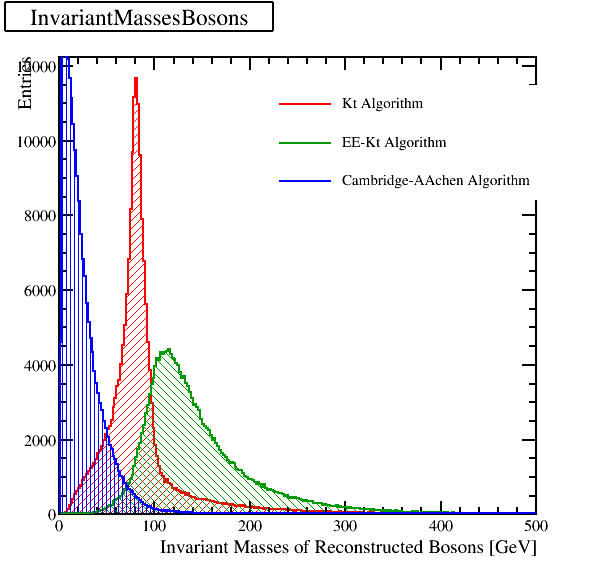
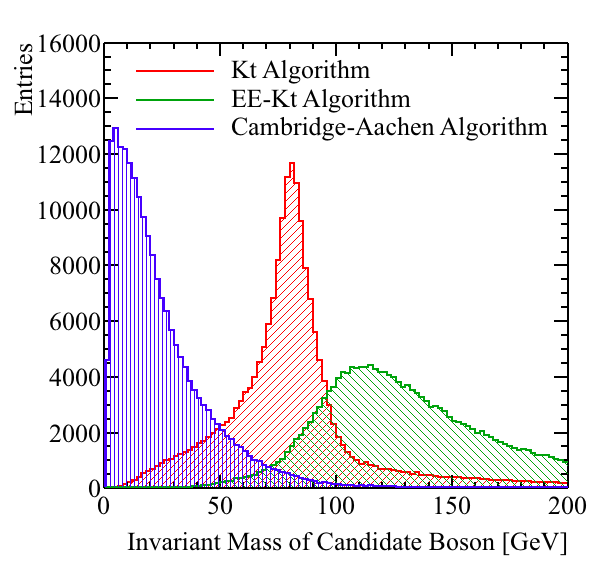
Tidied up jet algorithm choice plots.

Changed region(s): [[0.0, 0.0, 0.9966, 0.9808], [0.5738, 0.2972, 0.906, 0.3269]]

diff --git a/PhysicsAnalysis/Plots/SimpleInvMassPlot/InvariantMassesAlgorithmVeto.C b/PhysicsAnalysis/Plots/SimpleInvMassPlot/InvariantMassesAlgorithmVeto.C
@@ -14,8 +14,8 @@
    Canvas->SetFrameLineWidth(2);
    Canvas->SetFrameBorderMode(0);
    Canvas->SetRightMargin(0.05);
-   Canvas->SetLeftMargin(0.15);
-   Canvas->SetTopMargin(0.05);
+   Canvas->SetLeftMargin(0.175);
+   Canvas->SetTopMargin(0.075);
    Canvas->SetBottomMargin(0.15);
    
    TH1F *InvarinatMassesBosonsKt = new TH1F("InvarinatMassesBosonsKt","",100,0,200);
@@ -276,19 +276,20 @@
    InvarinatMassesBosonsKt->SetLineColor(2);
    InvarinatMassesBosonsKt->SetLineWidth(2);
    InvarinatMassesBosonsKt->SetMarkerStyle(20);
-   InvarinatMassesBosonsKt->GetXaxis()->SetTitle("Invariant Masses of Reconstructed Bosons [GeV]");
+   InvarinatMassesBosonsKt->GetXaxis()->SetTitle("Invariant Mass of Candidate Boson [GeV]");
    InvarinatMassesBosonsKt->GetXaxis()->SetNdivisions(505);
    InvarinatMassesBosonsKt->GetXaxis()->SetLabelFont(132);
    InvarinatMassesBosonsKt->GetXaxis()->SetLabelSize(0.05);
    InvarinatMassesBosonsKt->GetXaxis()->SetTitleSize(0.05);
-   InvarinatMassesBosonsKt->GetXaxis()->SetTitleOffset(1.5);
+   InvarinatMassesBosonsKt->GetXaxis()->SetTitleOffset(1.2);
    InvarinatMassesBosonsKt->GetXaxis()->SetTitleFont(132);
    InvarinatMassesBosonsKt->GetYaxis()->SetTitle("Entries");
    InvarinatMassesBosonsKt->GetYaxis()->SetLabelFont(132);
    InvarinatMassesBosonsKt->GetYaxis()->SetLabelSize(0.05);
    InvarinatMassesBosonsKt->GetYaxis()->SetTitleSize(0.05);
-   InvarinatMassesBosonsKt->GetYaxis()->SetTitleOffset(1.6);
+   InvarinatMassesBosonsKt->GetYaxis()->SetTitleOffset(1.7);
    InvarinatMassesBosonsKt->GetYaxis()->SetTitleFont(132);
+   InvarinatMassesBosonsKt->GetYaxis()->SetRangeUser(0,16000);
    InvarinatMassesBosonsKt->GetZaxis()->SetLabelFont(132);
    InvarinatMassesBosonsKt->GetZaxis()->SetLabelSize(0.05);
    InvarinatMassesBosonsKt->GetZaxis()->SetTitleSize(0.05);
@@ -789,7 +790,8 @@
    InvarinatMassesBosonsCam->GetZaxis()->SetTitleFont(132);
    InvarinatMassesBosonsCam->Draw("same");
    
-   TLegend *leg = new TLegend(0.55,0.65,0.95,0.85,NULL,"brNDC");
+   TLegend *leg = new TLegend(0.2,0.75,0.95,0.9,NULL,"brNDC");
+   leg->SetTextSize(0.05);
    leg->SetBorderSize(0);
    leg->SetTextFont(132);
    leg->SetLineColor(1);
@@ -836,4 +838,6 @@
    Canvas->Modified();
    Canvas->cd();
    Canvas->SetSelected(Canvas);
+   Canvas->SaveAs("InvariantMassesAlgorithmVeto.pdf");
+   Canvas->SaveAs("InvariantMassesAlgorithmVeto.png");
 }
